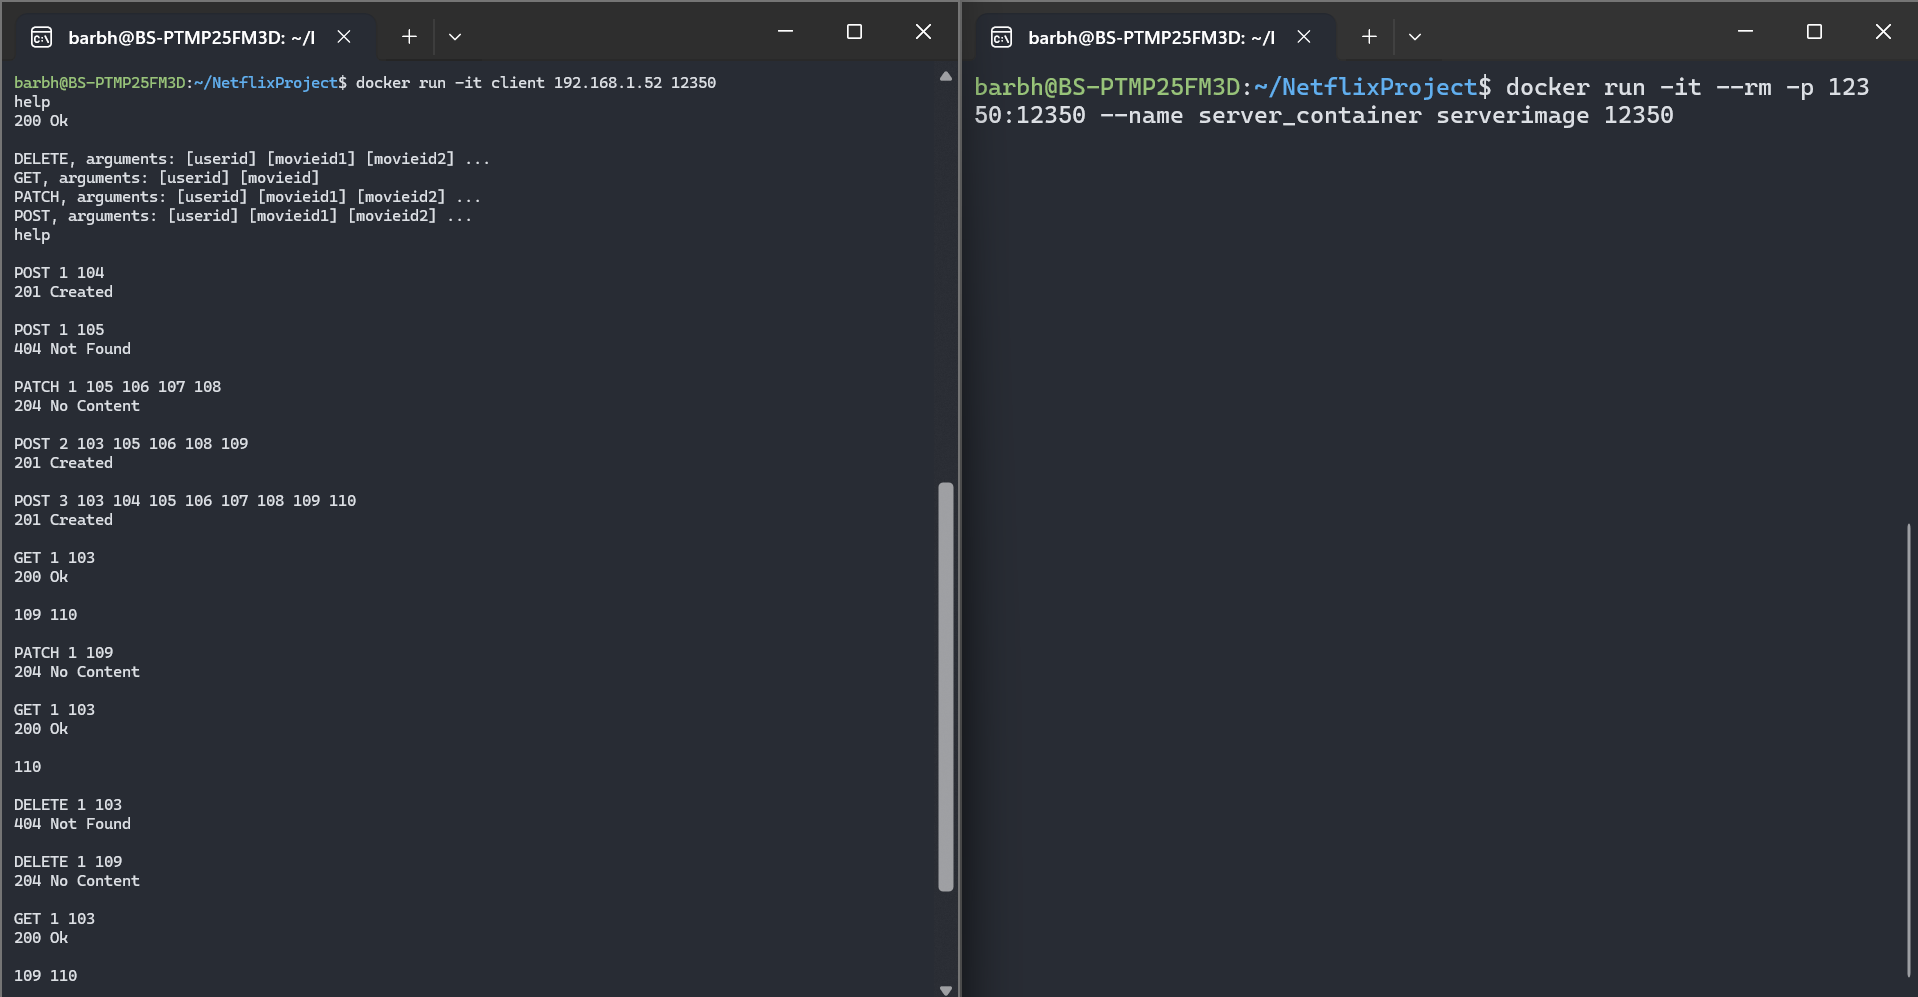
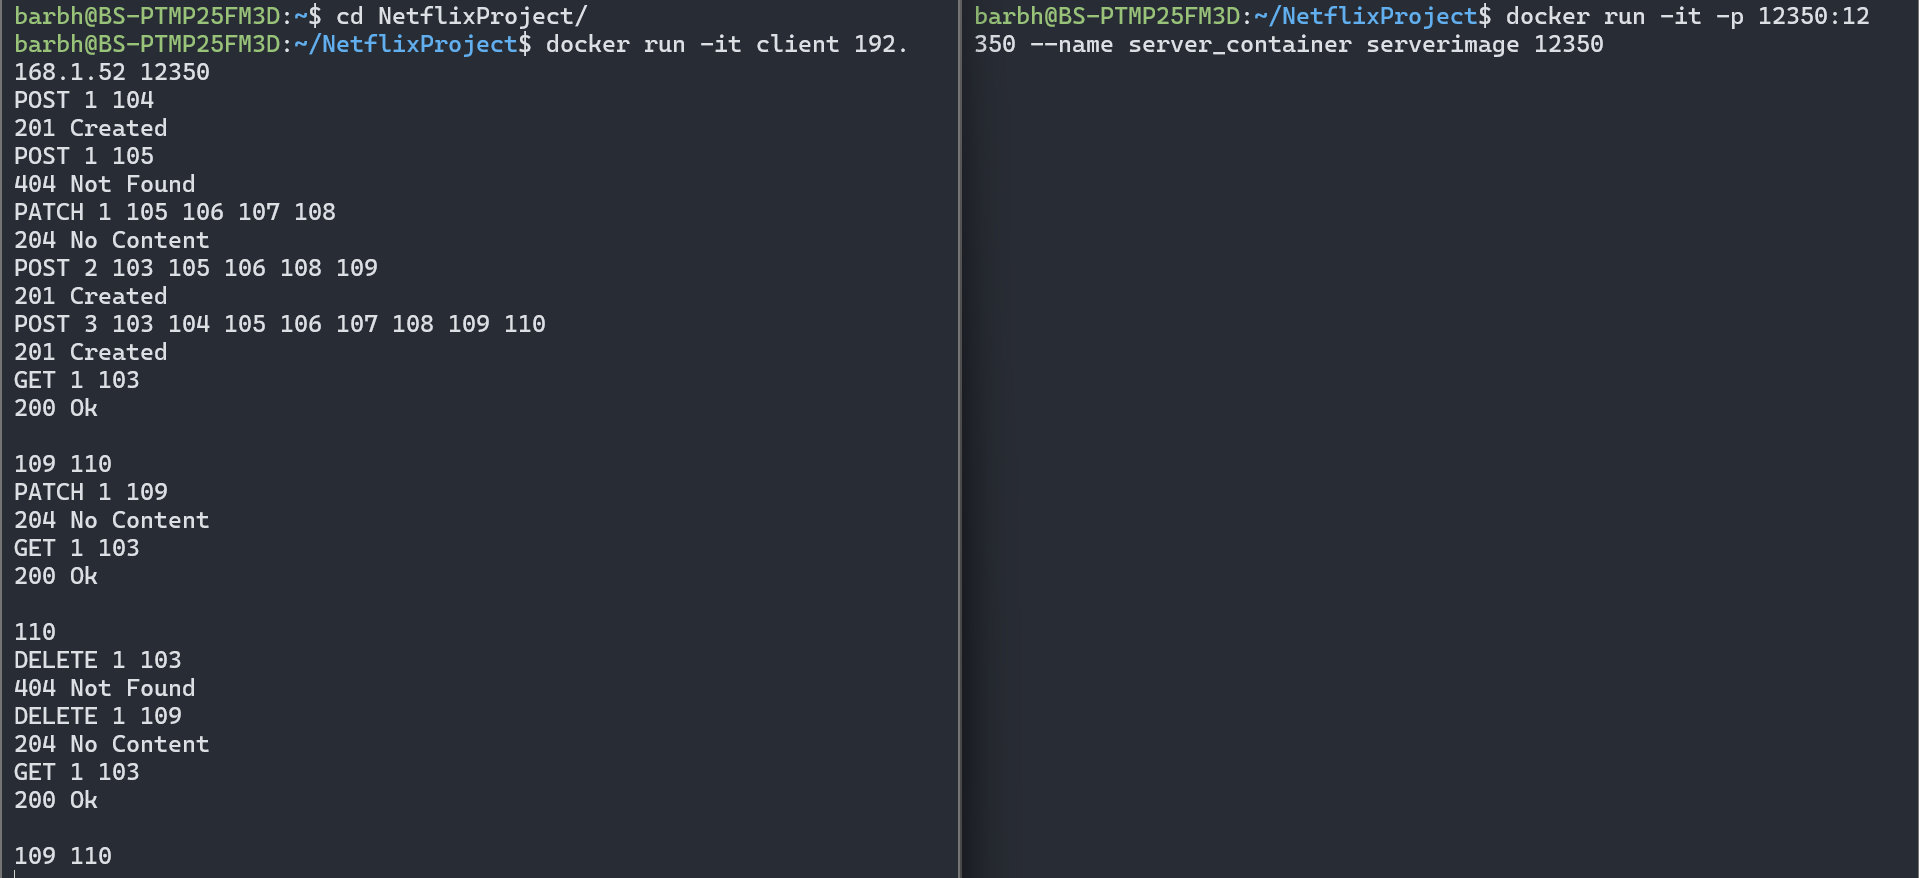
NP-54 minor bug

diff --git a/src/Objects/Client.py b/src/Objects/Client.py
@@ -51,7 +51,7 @@ class Client:
                     if len(chunk) == BYTES and chunk.endswith(b'\n'):
                         break
 
-                print(data.decode())
+                print(data.decode(), end="")
         except:
             # Close the socket in case of an error
             self.__sock.close()
